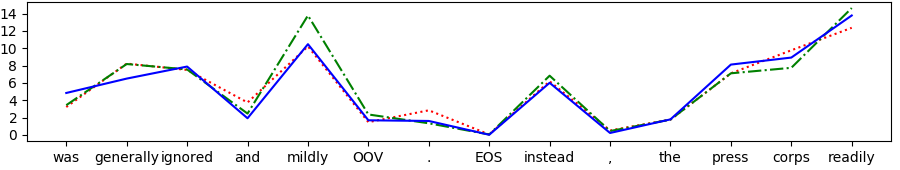
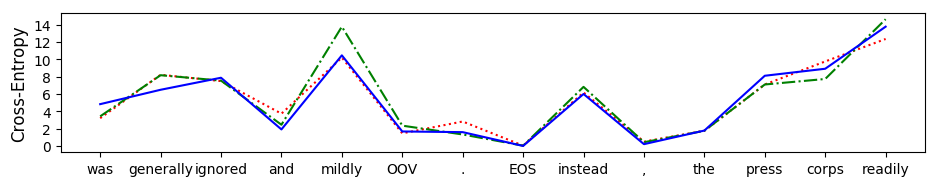
viz

diff --git a/code/nprd/visualize_PTB.py b/code/nprd/visualize_PTB.py
@@ -71,15 +71,11 @@ for j in range(min(numsOfTexts)): #len(ress[0][2])):
   
    char = [x[1] for x in data]
 
-
-
    ys = []
    for i in range(len(ress)):
        ys.append([float(x[2]) for x in ress[i][2][j]])
        ys[-1] = np.asarray(ys[-1])
        print(ys[-1])
-   
-   
    
    print(ys[0])
    
@@ -99,12 +95,12 @@ for j in range(min(numsOfTexts)): #len(ress[0][2])):
 #   plt.axvline(x=15.5, color="green") 
    
    ax.grid(False)
-#   ax.set_ylabel("Cross-Entropy", fontsize=12)
+   ax.set_ylabel("Cross-Entropy", fontsize=12)
 
    ax.yaxis.set_major_locator(MaxNLocator(integer=True))
 #   figure(figsize=(25,10))
    fileName = "sample_"+str(j)
-   fig.savefig("figures/"+fileName+".png")
+   fig.savefig("figures/"+fileName+".png", bbox_inches='tight')
 #   plt.show()
    plt.gcf().clear()
 
